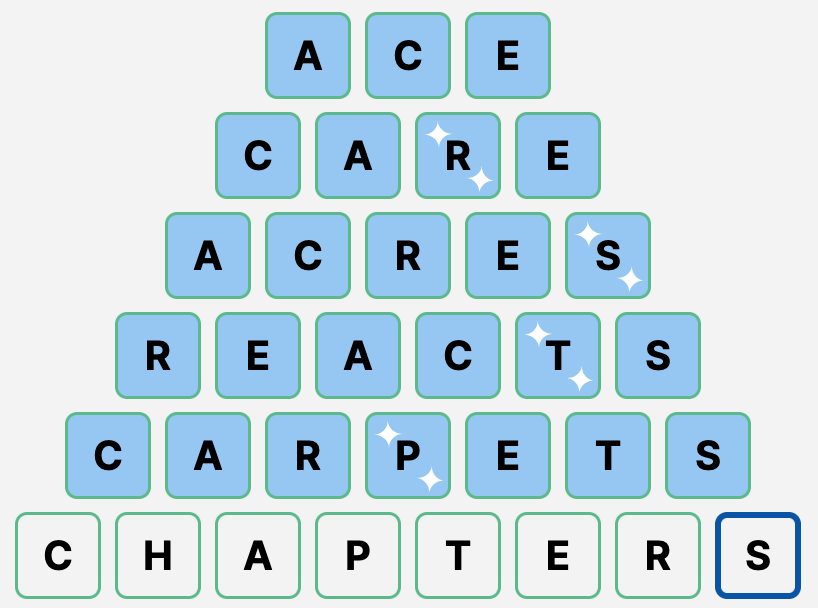
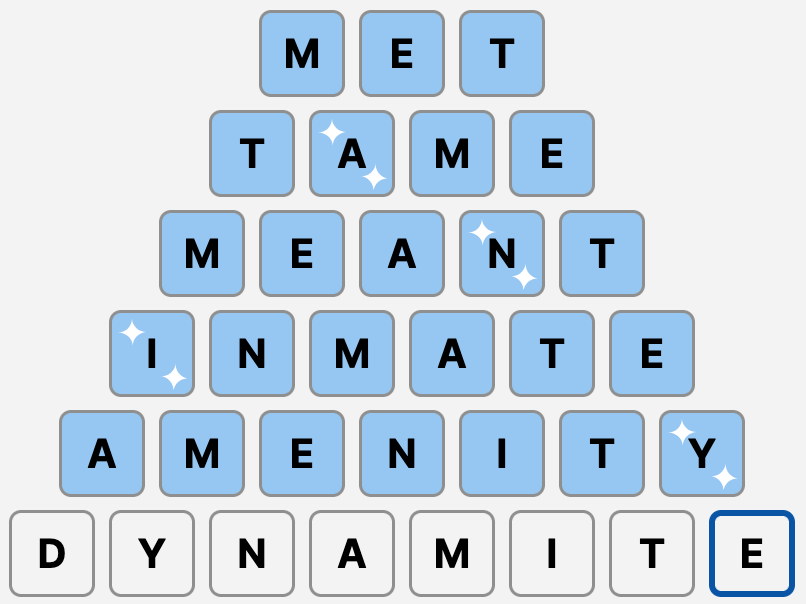
Update info drawer

Changed region(s): [[0.0, 0.0, 0.9926, 1.0]]

diff --git a/subsets/packages/app/features/drawer.tsx b/subsets/packages/app/features/drawer.tsx
@@ -47,7 +47,7 @@ const Drawer = ({ visible, onClose }) => {
                 </DefaultText>
               </XStack>
               <DefaultText marginTop={8}>
-                For example, if the starting word is "ACE", the answers might look like this:
+                For example, if the starting word is "MET", the answers might look like this:
               </DefaultText>
               <YStack alignItems="center" width="100%">
                 <Image src="/full_example.png" alt="Full example" width={292} height={218} marginVertical={8}/>
@@ -77,15 +77,16 @@ const Drawer = ({ visible, onClose }) => {
               </XStack>
 
               <DefaultText marginTop={8}>
-                For example, if you can't think of a 5-letter word, you could guess "ARCH" to get some clues:
+                For example, if you couldn't think of a 5-letter word for the above puzzle,
+                you could guess "MANY" to get some clues:
               </DefaultText>
               <YStack alignItems="center" width="100%">
                 <Image src="/example.png" alt="Example" width={205} height={42} marginVertical={8}/>
               </YStack>
-              <DefaultText><DefaultText fontWeight="bold">A</DefaultText> is in the word and in the correct spot.</DefaultText>
-              <DefaultText><DefaultText fontWeight="bold">R, C</DefaultText> are in the word but in the wrong spot.</DefaultText>
-              <DefaultText><DefaultText fontWeight="bold">H</DefaultText> is not in the word in any spot.</DefaultText>
-              <DefaultText marginTop={8}>The last space isn't used, and doesn't provide a clue.</DefaultText>
+              <DefaultText><DefaultText fontWeight="bold">M</DefaultText> is in the word and in the correct square.</DefaultText>
+              <DefaultText><DefaultText fontWeight="bold">A, N</DefaultText> are in the word but in the wrong square.</DefaultText>
+              <DefaultText><DefaultText fontWeight="bold">Y</DefaultText> is not in the word in any square.</DefaultText>
+              <DefaultText marginTop={8}>The last square isn't used, and doesn't provide a clue.</DefaultText>
 
               <DefaultText textAlign='center' fontWeight="bold" backgroundColor="$blue4Light" marginTop={16}>SOLUTION</DefaultText>
               <XStack backgroundColor="$blue3Light" marginTop={8}>
@@ -97,10 +98,10 @@ const Drawer = ({ visible, onClose }) => {
               </XStack>
 
               <DefaultText marginTop={8}>
-                For example, given the clue below you might guess "STROPHE":
+                For example, given the clue below you might guess "CYANIDE":
               </DefaultText>
               <YStack alignItems="center" width="100%">
-                <Image src="/anagram.png" alt="Example" width={255} height={323} marginTop={8}/>
+                <Image src="/anagram.png" alt="Example" width={304} height={358} marginTop={8}/>
               </YStack>
 
               <DefaultText textAlign='center' fontWeight="bold" backgroundColor="$blue4Light" marginVertical={16}>SCORING</DefaultText>
